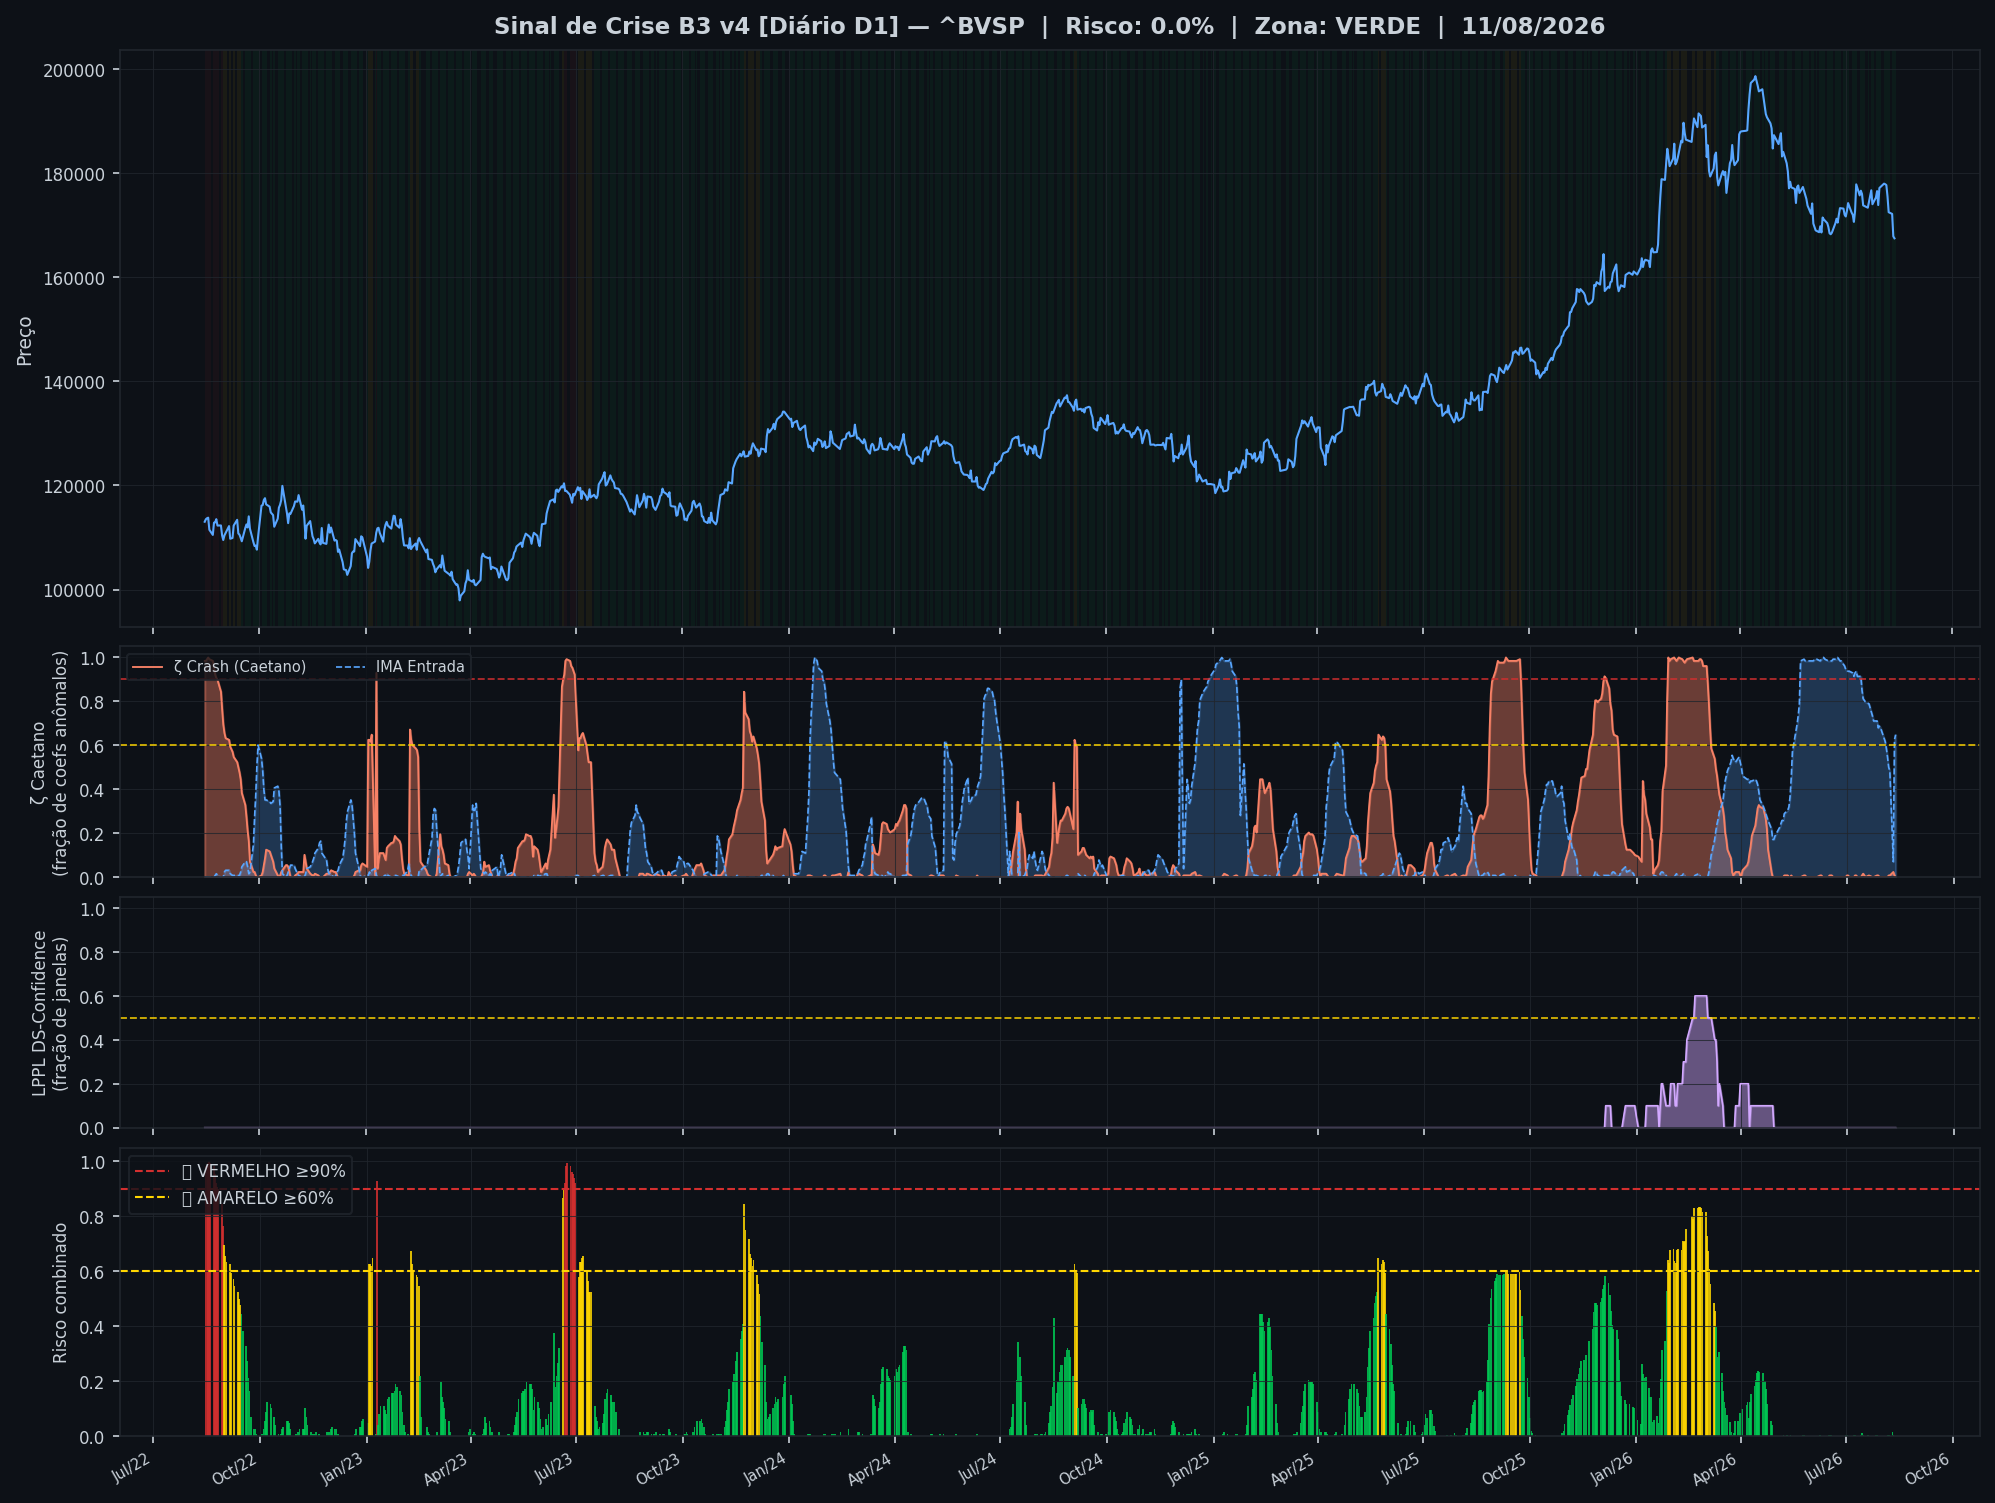
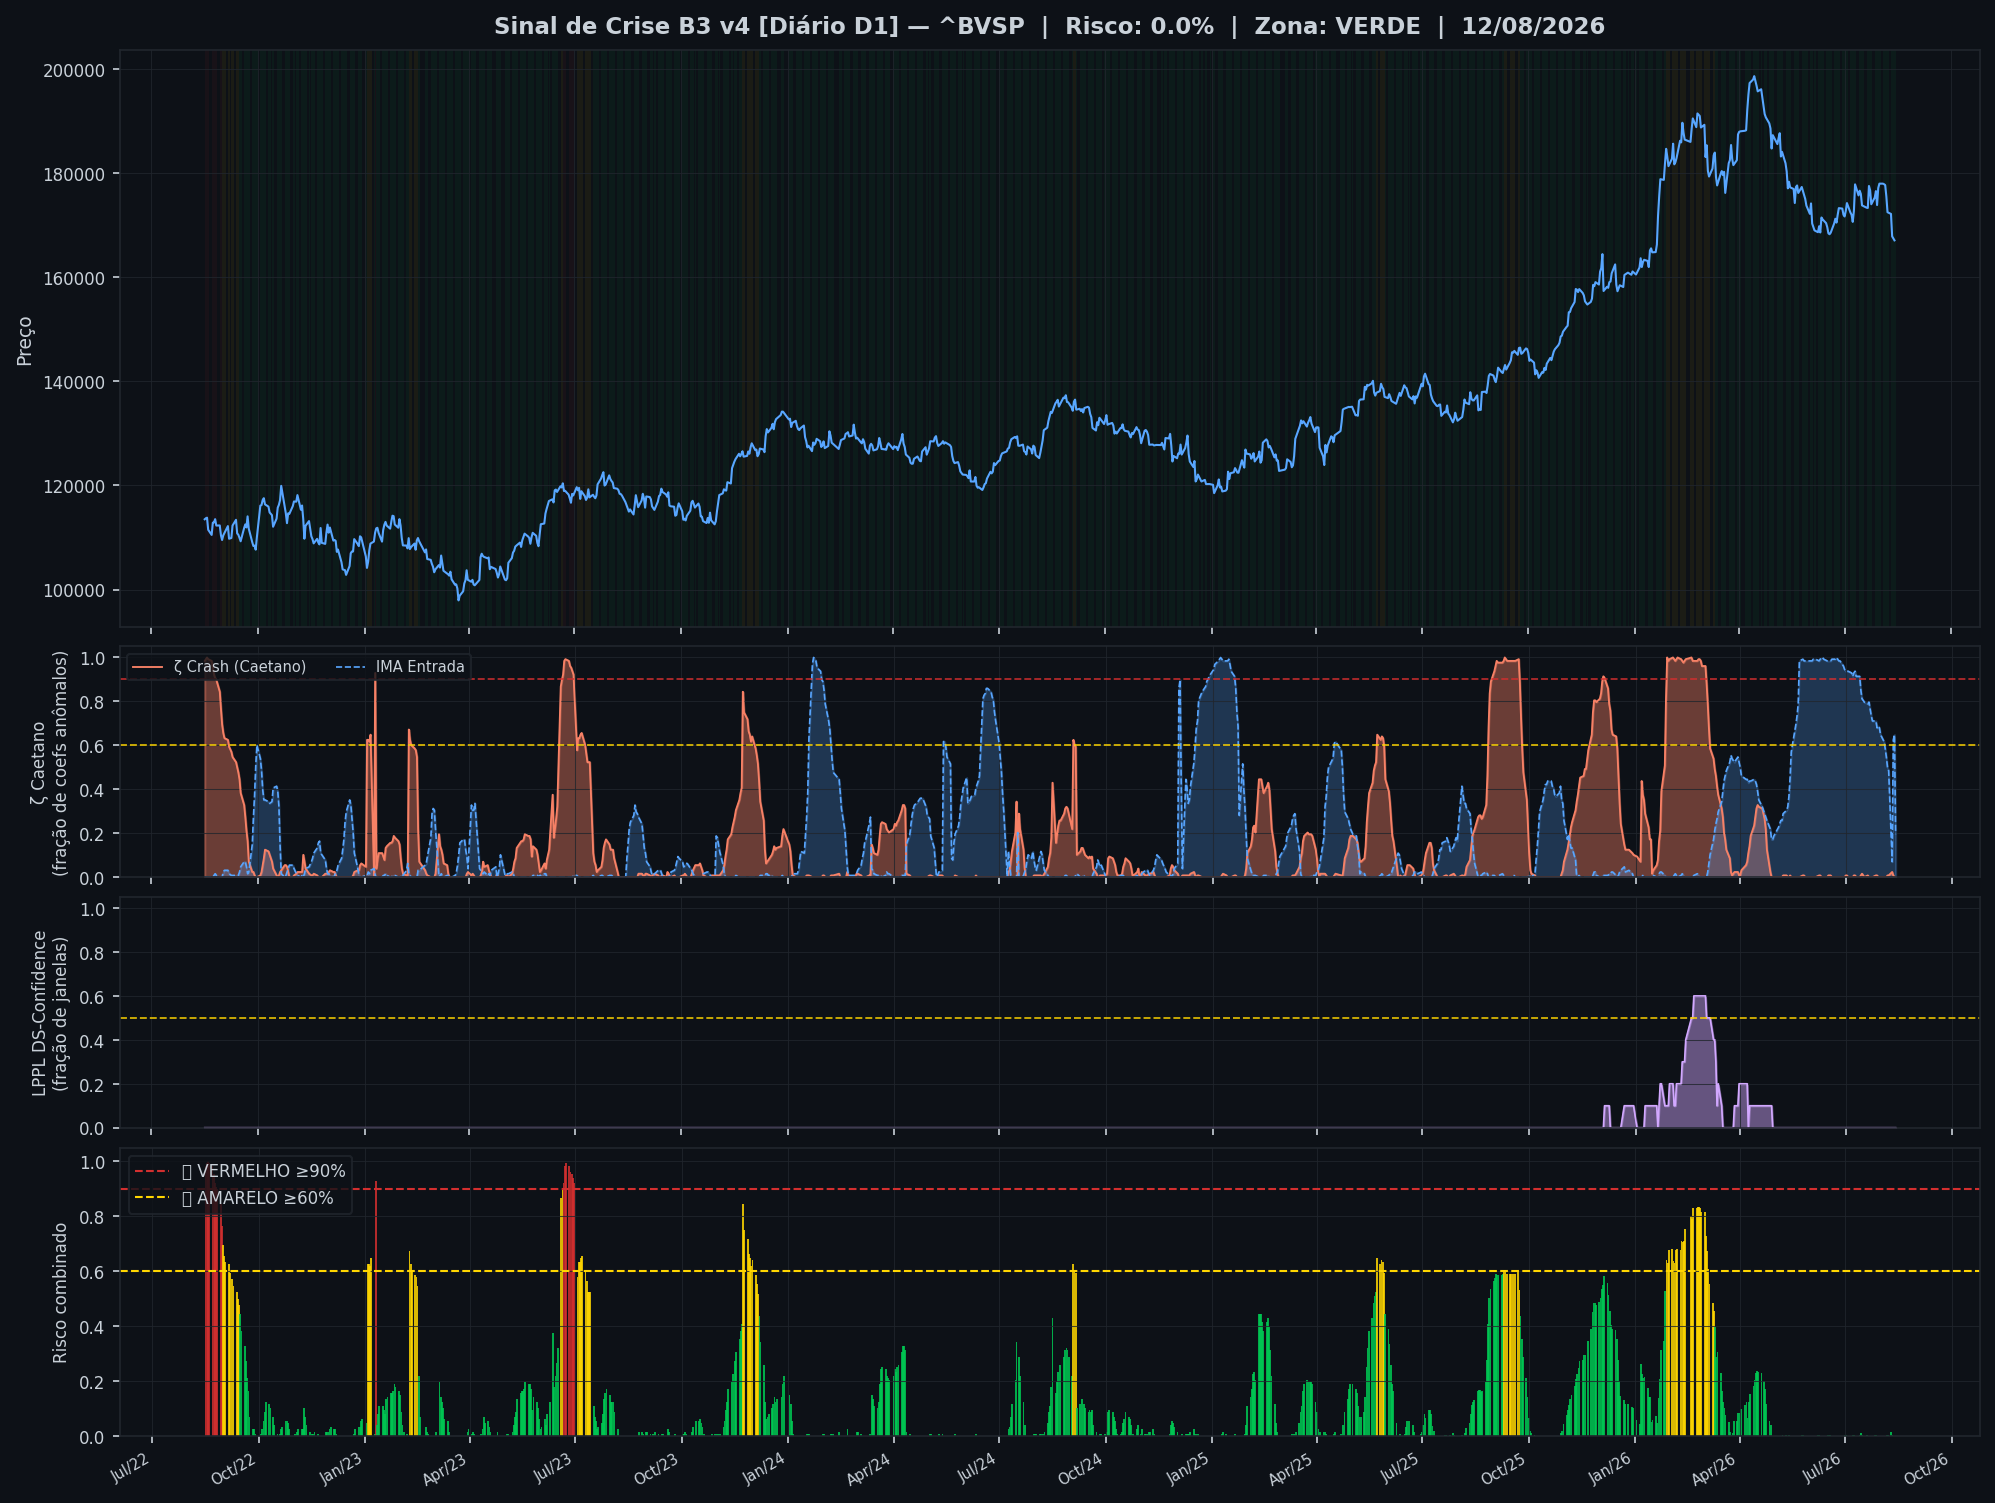
🤖 Auto: Sinal 13/08/2026 19:00

diff --git a/content/diario/2026-08-12.md b/content/diario/2026-08-12.md
@@ -1,0 +1,104 @@
+---
+title: "🟢 Diário 12/08/2026 — VERDE"
+date: 2026-08-13
+tags: [diario]
+---
+
+> [!success] 🟢 **VERDE** — Risco 0% · ＝ +0 p.p. vs leitura anterior
+> `░░░░░░░░░░░░░░░░░░░░`
+> Mercado sem sinais relevantes de estresse.
+
+
+| Indicador | Valor |
+|---|---|
+| 🔴 ζ Crash — severidade da queda em curso | **0%** |
+| 🔵 ζ Entrada — estrutura de fundo | 20% |
+| 🫧 LPPL DS-Confidence | 0% |
+| 📊 Ibovespa | 167.101 pts |
+
+![Gráfico do sinal](../graficos/sinal_diario.png)
+
+## Últimos 30 pregões
+
+| Data | Zona | Risco | IMA Crash | Entrada | LPPL |
+|---|---|---|---|---|---|
+| 2026-08-12 21:00 | 🟢 VERDE | **0%** | 0% | 20% | 0% |
+| 2026-08-11 21:00 | 🟢 VERDE | **0%** | 0% | 65% | 0% |
+| 2026-08-10 21:00 | 🟢 VERDE | **0%** | 1% | 62% | 0% |
+| 2026-08-09 21:00 | 🟢 VERDE | **1%** | 2% | 7% | 0% |
+| 2026-08-06 21:00 | 🟢 VERDE | **0%** | 1% | 48% | 0% |
+| 2026-08-05 21:00 | 🟢 VERDE | **0%** | 1% | 50% | 0% |
+| 2026-08-04 21:00 | 🟢 VERDE | **0%** | 0% | 55% | 0% |
+| 2026-08-03 21:00 | 🟢 VERDE | **0%** | 0% | 59% | 0% |
+| 2026-08-02 21:00 | 🟢 VERDE | **0%** | 0% | 62% | 0% |
+| 2026-07-30 21:00 | 🟢 VERDE | **0%** | 0% | 65% | 0% |
+| 2026-07-29 21:00 | 🟢 VERDE | **0%** | 0% | 68% | 0% |
+| 2026-07-28 21:00 | 🟢 VERDE | **0%** | 0% | 69% | 0% |
+| 2026-07-27 21:00 | 🟢 VERDE | **0%** | 1% | 68% | 0% |
+| 2026-07-26 21:00 | 🟢 VERDE | **0%** | 1% | 71% | 0% |
+| 2026-07-23 21:00 | 🟢 VERDE | **0%** | 0% | 71% | 0% |
+| 2026-07-22 21:00 | 🟢 VERDE | **0%** | 0% | 73% | 0% |
+| 2026-07-21 21:00 | 🟢 VERDE | **0%** | 0% | 77% | 0% |
+| 2026-07-20 21:00 | 🟢 VERDE | **0%** | 0% | 80% | 0% |
+| 2026-07-19 21:00 | 🟢 VERDE | **0%** | 1% | 79% | 0% |
+| 2026-07-16 21:00 | 🟢 VERDE | **0%** | 0% | 80% | 0% |
+| 2026-07-15 21:00 | 🟢 VERDE | **0%** | 1% | 80% | 0% |
+| 2026-07-14 21:00 | 🟢 VERDE | **1%** | 2% | 81% | 0% |
+| 2026-07-13 21:00 | 🟢 VERDE | **0%** | 1% | 85% | 0% |
+| 2026-07-12 21:00 | 🟢 VERDE | **0%** | 0% | 91% | 0% |
+| 2026-07-09 21:00 | 🟢 VERDE | **0%** | 0% | 91% | 0% |
+| 2026-07-08 21:00 | 🟢 VERDE | **0%** | 1% | 94% | 0% |
+| 2026-07-07 21:00 | 🟢 VERDE | **0%** | 1% | 93% | 0% |
+| 2026-07-06 21:00 | 🟢 VERDE | **0%** | 0% | 91% | 0% |
+| 2026-07-05 21:00 | 🟢 VERDE | **0%** | 0% | 93% | 0% |
+| 2026-07-02 21:00 | 🟢 VERDE | **0%** | 0% | 94% | 0% |
+
+## Monitor Multi-Ativo
+
+**4% dos ativos em tensão** (1🔴 0🟡) — quanto mais ativos disparam juntos, mais confiável o sinal.
+
+| Zona | Ativo | Setor | IMA Crash | IMA Entrada |
+|---|---|---|---|---|
+| 🔴 | **USD/BRL** | Câmbio | 90.6% | 1.6% |
+| 🟢 | **VALE** | Mineração | 12.5% | 0.0% |
+| 🟢 | **ITAUUNIBANCO** | Financeiro | 12.5% | 0.0% |
+| 🟢 | **PETROBRAS** | Petróleo | 12.5% | 0.0% |
+| 🟢 | **AXIA ENERGIA** | Energia | 12.5% | 0.0% |
+| 🟢 | **PETROBRAS** | Petróleo | 12.5% | 0.0% |
+| 🟢 | **BRADESCO** | Financeiro | 12.5% | 0.0% |
+| 🟢 | **SABESP** | Saneamento | 12.5% | 0.0% |
+| 🟢 | **ITAUSA** | Financeiro | 12.5% | 0.0% |
+| 🟢 | **B3** | Financeiro | 12.5% | 0.0% |
+| 🟢 | **WEG** | Industrial | 12.5% | 0.0% |
+| 🟢 | **EMBRAER** | Outros | 12.5% | 0.0% |
+| 🟢 | **AMBEV S/A** | Consumo | 12.5% | 0.0% |
+| 🟢 | **BTGP BANCO** | Financeiro | 12.5% | 0.0% |
+| 🟢 | **BRASIL** | Financeiro | 12.5% | 0.0% |
+| 🟢 | **ENEVA** | Energia | 12.5% | 0.0% |
+| 🟢 | **PRIO** | Petróleo | 12.5% | 0.0% |
+| 🟢 | **EQUATORIAL** | Energia | 12.5% | 0.0% |
+| 🟢 | **COPEL** | Energia | 12.5% | 0.0% |
+| 🟢 | **VIBRA** | Energia | 12.5% | 0.0% |
+| 🟢 | **REDE D OR** | Saúde | 12.5% | 0.0% |
+| 🟢 | **LOCALIZA** | Aluguel | 12.5% | 0.0% |
+| 🟢 | **ULTRAPAR** | Outros | 12.5% | 0.0% |
+| 🟢 | **GERDAU** | Siderurgia | 12.5% | 0.0% |
+| 🟢 | **SUZANO S.A.** | Papel/Celulose | 12.5% | 0.0% |
+| 🟢 | **RAIADROGASIL** | Outros | 12.5% | 0.0% |
+
+![Monitor multi-ativo](../graficos/multi_diario.png)
+
+*Página atualizada em 13/08/2026 19:00 BRT (leitura da barra de 2026-08-12 BRT).*
+
+> [!info]- Como interpretar (clique para expandir)
+> - **ζ Crash**: fração dos coeficientes wavelet acima do corte (Caetano & Yoneyama 2009). Escala absoluta: ζ=0,90 = 90% dos coeficientes anômalos — historicamente, quedas com ζ≥0,90 foram mais fundas e mais longas. **Mede a severidade do movimento em curso, não prevê o início da queda.**
+> - **ζ Entrada**: coeficientes negativos além do corte — estrutura de fundo, possível região de compra.
+> - **LPPL DS-Confidence**: fração de janelas (60–504 pregões) em que o modelo de bolha de Sornette produz um ajuste válido. 30% já é relevante; acima de 50% é forte evidência de estrutura de bolha.
+> - **Zonas com histerese**: o sinal só muda de zona ao cruzar o limiar de entrada, e só volta ao cruzar o de saída — evita flip-flop diário.
+
+
+---
+*Sinal de Crise B3 v4 · IMA Wavelet ([Caetano & Yoneyama, Physica-A 2007](https://doi.org/10.1016/j.physa.2007.03.054)) + LPPL DS-Confidence (Sornette, ETH-Zurich) · [Metodologia](metodologia) · [Histórico](historico)*
+
+> [!quote]- Aviso
+> Estudo acadêmico. Não constitui recomendação de investimento.

diff --git a/content/index.md b/content/index.md
@@ -8,21 +8,21 @@ tags: [home]
 
 Monitoramento diário e intraday do Ibovespa — **IMA Wavelet** (Prof. Marco Antonio Leonel Caetano, ITA/INSPER) + **LPPL DS-Confidence** (Prof. Didier Sornette, ETH-Zurich).
 
-*Última atualização: 13/08/2026 17:30 BRT · ^BVSP · Intraday 15min · v4*
+*Última atualização: 13/08/2026 19:00 BRT · ^BVSP · Diário D1 · v4*
 
-> [!success] 🟢 **VERDE** — Risco 1% · ＝ +0 p.p. vs leitura anterior
+> [!success] 🟢 **VERDE** — Risco 0% · ＝ +0 p.p. vs leitura anterior
 > `░░░░░░░░░░░░░░░░░░░░`
 > Mercado sem sinais relevantes de estresse.
 
 
 | Indicador | Valor |
 |---|---|
-| 🔴 ζ Crash — severidade da queda em curso | **1%** |
-| 🔵 ζ Entrada — estrutura de fundo | 2% |
+| 🔴 ζ Crash — severidade da queda em curso | **0%** |
+| 🔵 ζ Entrada — estrutura de fundo | 20% |
 | 🫧 LPPL DS-Confidence | 0% |
-| 📊 Ibovespa | 167.098 pts |
+| 📊 Ibovespa | 167.101 pts |
 
-**Multi-ativo:** 0% em tensão (0🔴 0🟡 de 26 ativos)
+**Multi-ativo:** 4% em tensão (1🔴 0🟡 de 26 ativos)
 
 
 > [!tip]- Calibração v4 (backtest 15y)
@@ -32,8 +32,13 @@ Monitoramento diário e intraday do Ibovespa — **IMA Wavelet** (Prof. Marco An
 
 | Data | Zona | Risco | IMA | LPPL |
 |---|---|---|---|---|
-| [13 Aug 2026](diario/2026-08-13) | 🟢 VERDE | **1%** | 1% | 0% |
-| [12 Aug 2026](diario/2026-08-12) | 🟢 VERDE | **26%** | 26% | 0% |
+| [12 Aug 2026](diario/2026-08-12) | 🟢 VERDE | **0%** | 0% | 0% |
+| [11 Aug 2026](diario/2026-08-11) | 🟢 VERDE | **0%** | 0% | 0% |
+| [10 Aug 2026](diario/2026-08-10) | 🟢 VERDE | **0%** | 1% | 0% |
+| [09 Aug 2026](diario/2026-08-09) | 🟢 VERDE | **1%** | 2% | 0% |
+| [06 Aug 2026](diario/2026-08-06) | 🟢 VERDE | **0%** | 1% | 0% |
+| [05 Aug 2026](diario/2026-08-05) | 🟢 VERDE | **0%** | 1% | 0% |
+| [04 Aug 2026](diario/2026-08-04) | 🟢 VERDE | **0%** | 0% | 0% |
 
 ## Navegação
 

diff --git a/content/historico.md b/content/historico.md
@@ -7,6 +7,7 @@ tags: [historico]
 
 | Data | Modo | Zona | Risco | IMA | LPPL |
 |---|---|---|---|---|---|
+| 2026-08-12 | diario | 🟢 VERDE | 0% | 0% | 0% |
 | 2026-08-13 16:45 | intraday | 🟢 VERDE | 1% | 1% | 0% |
 | 2026-08-13 16:30 | intraday | 🟢 VERDE | 1% | 1% | 0% |
 | 2026-08-13 16:15 | intraday | 🟢 VERDE | 0% | 0% | 0% |
